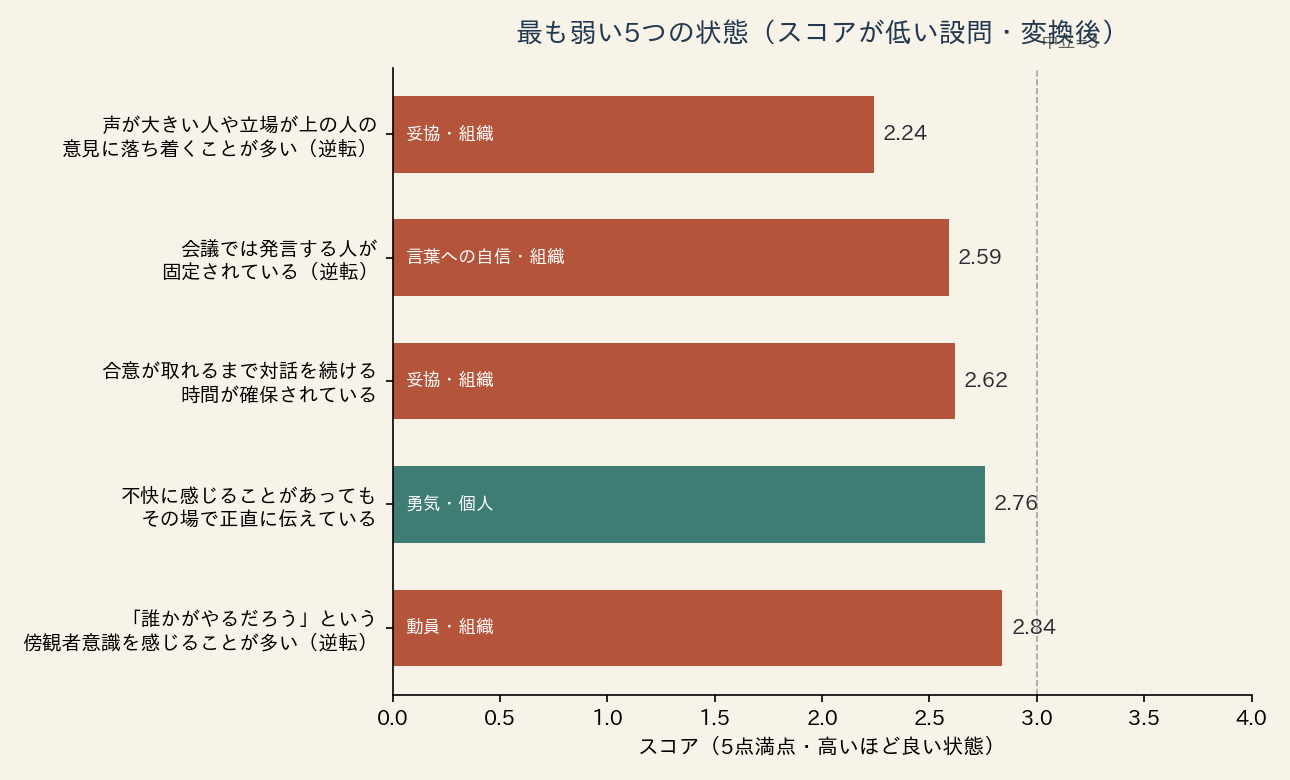
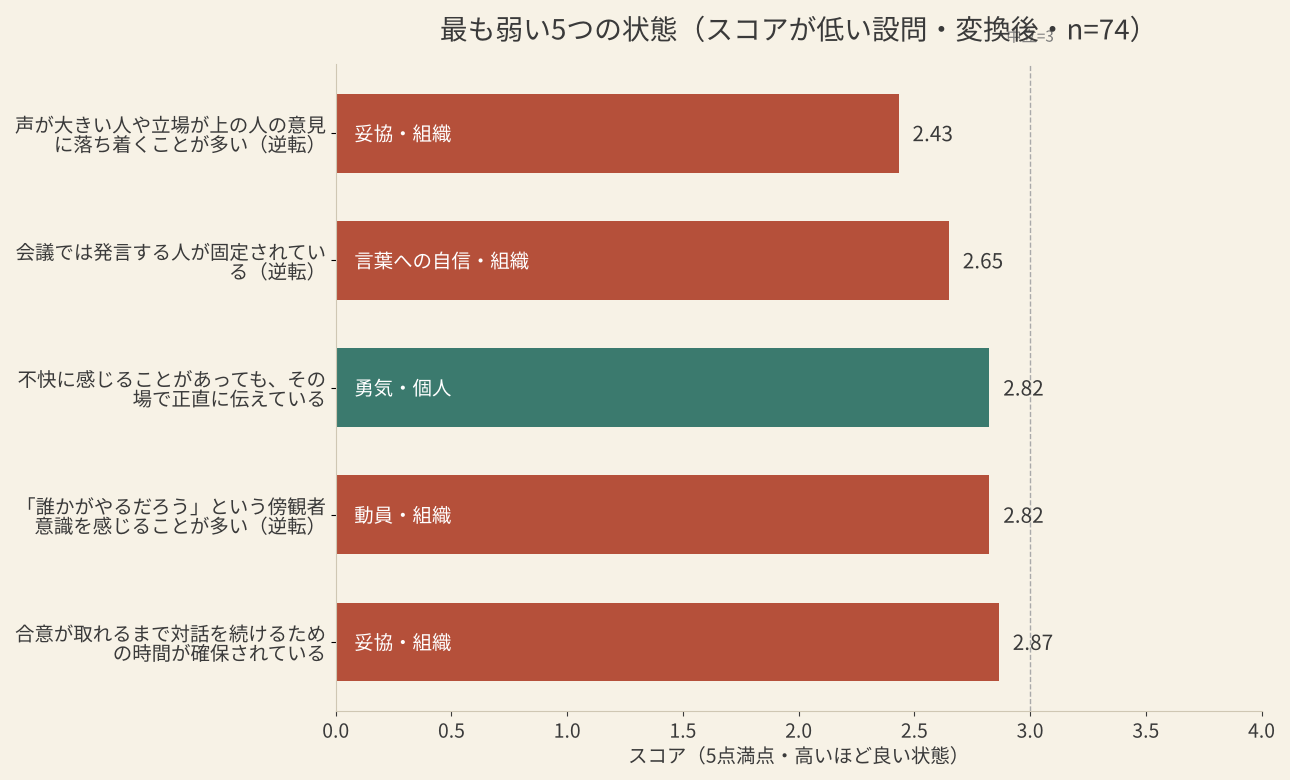
デモクラ筋白書2026 速報版を2026年10月再集計（n=37→74）で更新、再集計セクションと図を差し替え
Claude-Session: https://claude.ai/code/session_013icAqUWDd4NxwrAsCHbSKK

diff --git a/democracy-fitness-hakusho-2026.html b/democracy-fitness-hakusho-2026.html
@@ -11,11 +11,11 @@
 </script>
 <meta charset="UTF-8">
 <meta name="viewport" content="width=device-width, initial-scale=1.0">
-<title>デモクラ筋白書2026 速報版｜37人のベースラインが示す「個人より組織が弱い」</title>
-<meta name="description" content="デモクラ筋診断のベースラインデータ(n=37)を分析。10筋中9筋で個人評価が組織評価を上回り、唯一「勇気」だけが逆転。心理的安全性があっても人は発言しない——3つの発見と、実施後に検証する仮説を事前宣言する。">
+<title>デモクラ筋白書2026 速報版（2026年10月再集計・n=74）｜個人より組織が弱い</title>
+<meta name="description" content="デモクラ筋診断のベースラインデータを分析。2026年10月にn=74で再集計しても、10筋中9筋で個人評価が組織評価を上回り、唯一「勇気」だけが逆転するパターンは変わらなかった。心理的安全性があっても人は発言しない——3つの発見と、検証中の仮説。">
 <link rel="canonical" href="https://kizukikumitate.com/democracy-fitness-hakusho-2026.html">
 <meta property="og:title" content="デモクラ筋白書2026 速報版">
-<meta property="og:description" content="個人の筋力より、組織の環境が弱い——37人のベースライン分析と3つの発見">
+<meta property="og:description" content="個人の筋力より、組織の環境が弱い——74人のベースライン分析と3つの発見（2026年10月再集計）">
 <meta property="og:type" content="article">
 <meta property="og:url" content="https://kizukikumitate.com/democracy-fitness-hakusho-2026.html">
 <meta property="og:image" content="https://kizukikumitate.com/hakusho-ogp.png">
@@ -23,7 +23,7 @@
 <meta property="og:image:height" content="630">
 <meta name="twitter:card" content="summary_large_image">
 <meta name="twitter:title" content="デモクラ筋白書2026 速報版">
-<meta name="twitter:description" content="個人の筋力より、組織の環境が弱い——37人のベースライン分析と3つの発見">
+<meta name="twitter:description" content="個人の筋力より、組織の環境が弱い——74人のベースライン分析と3つの発見（2026年10月再集計）">
 <meta name="twitter:image" content="https://kizukikumitate.com/hakusho-ogp.png">
 <link rel="preconnect" href="https://fonts.googleapis.com">
 <link rel="preconnect" href="https://fonts.gstatic.com" crossorigin>
@@ -48,7 +48,7 @@
   "isBasedOn": {
     "@type": "Dataset",
     "name": "デモクラ筋診断 ベースライン回答データ(2026)",
-    "description": "デモクラ筋診断(法人版・意識版)の回答。品質フィルタ適用後n=37。回答期間2026-03-21〜2026-07-07。",
+    "description": "デモクラ筋診断(法人版・意識版)の回答。品質フィルタ適用後n=74（速報版初出時はn=37）。回答期間2026-03-21〜2026-09-19。2026-10-24再集計。",
     "creator": { "@id": "https://kizukikumitate.com/#org" }
   },
   "license": "https://creativecommons.org/licenses/by-nc-sa/4.0/"
@@ -119,6 +119,11 @@ blockquote.item small{display:block;font-family:'Zen Kaku Gothic New',sans-serif
 .pledge .note{font-size:13px;color:var(--ink-soft);margin-top:14px;padding-right:70px}
 
 /* 限界 */
+.recount-grid{display:grid;grid-template-columns:repeat(2,minmax(0,1fr));gap:16px;margin:16px 0 20px}
+.rc{background:var(--card);border:1px solid var(--line);border-radius:8px;padding:18px 20px}
+.rc-k{font-family:'Jost','Zen Kaku Gothic New',sans-serif;font-weight:700;font-size:13px;letter-spacing:.12em;color:var(--teal);margin-bottom:8px}
+.rc ul{margin:0;padding-left:1.2em}.rc li{font-size:14.5px;line-height:1.75;margin-bottom:6px;word-break:keep-all;overflow-wrap:anywhere}
+@media (max-width:768px){.recount-grid{grid-template-columns:minmax(0,1fr)}}
 .limits{background:#F2F0E9;border:1px solid var(--line);border-radius:8px;padding:22px 24px;margin:8px 0 20px}
 .limits h3{font-size:16px;margin-bottom:10px;color:var(--indigo)}
 .limits p{font-size:14px;color:var(--ink-soft);margin-bottom:10px}
@@ -364,7 +369,7 @@ footer{border-top:0;padding:3rem 2rem;text-align:center}
       <button class="nav-dropdown-toggle" type="button">調査・データ <span class="nav-caret">▾</span></button>
       <div class="nav-dropdown-menu">
         <a href="./research.html" title="独自調査データの発行棚。白書・効果検証を公開">観測室について（調査・データ）</a>
-        <a href="./democracy-fitness-hakusho-2026.html" title="デモクラ筋診断のベースラインデータ(n=37)を分析" class="active">デモクラ筋白書2026 速報版</a>
+        <a href="./democracy-fitness-hakusho-2026.html" title="デモクラ筋診断のベースラインデータ(n=74)を分析" class="active">デモクラ筋白書2026 速報版</a>
         <a href="./jijitsu-daicho.html" title="資格・経歴・実績を出典つきで一覧する公式レジストリ">事実の台帳（発行者情報）</a>
       </div>
     </li>
@@ -500,7 +505,7 @@ footer{border-top:0;padding:3rem 2rem;text-align:center}
     <button class="mobile-acc-toggle" type="button">調査・データ <span class="mobile-acc-caret">▾</span></button>
     <div class="mobile-acc-panel">
       <a href="./research.html" title="独自調査データの発行棚。白書・効果検証を公開">観測室について（調査・データ）</a>
-      <a href="./democracy-fitness-hakusho-2026.html" title="デモクラ筋診断のベースラインデータ(n=37)を分析" class="active">デモクラ筋白書2026 速報版</a>
+      <a href="./democracy-fitness-hakusho-2026.html" title="デモクラ筋診断のベースラインデータ(n=74)を分析" class="active">デモクラ筋白書2026 速報版</a>
       <a href="./jijitsu-daicho.html" title="資格・経歴・実績を出典つきで一覧する公式レジストリ">事実の台帳（発行者情報）</a>
     </div>
   </div>
@@ -522,8 +527,8 @@ footer{border-top:0;padding:3rem 2rem;text-align:center}
   <div class="wrap">
     <div class="series">DEMOCRACY FITNESS WHITE PAPER 2026 / 速報版</div>
     <h1>デモクラ筋白書 2026<span class="headline">個人の筋力より、組織の環境が弱い</span></h1>
-    <div class="meta">n=37｜2026-03-21〜07-07｜デモクラ筋診断（法人版・意識版）ベースライン分析</div>
-    <p class="lead">対話に必要な10の筋肉——デモクラ筋。その診断データが37人分たまりました。まだ小さなサンプルです。しかし、そこにはすでに、はっきりとしたパターンが浮かんでいます。本速報版はベースライン（トレーニング実施前）の観察報告であり、これから検証する仮説をここに事前宣言します。</p>
+    <div class="meta">n=74｜2026-03-21〜09-19｜デモクラ筋診断（法人版・意識版）ベースライン分析｜2026-10-24 再集計（初出 2026-07-19 n=37）</div>
+    <p class="lead">対話に必要な10の筋肉——デモクラ筋。その診断データは、2026年7月の初出時点で37人分、同年10月の再集計で74人分になりました。まだ小さなサンプルです。しかし、サンプルが2倍になっても、最初に浮かんだパターンは一つも崩れませんでした。本速報版はベースライン（トレーニング実施前）の観察報告であり、検証中の仮説をここに事前宣言しています。</p>
   </div>
 </header>
 
@@ -540,12 +545,12 @@ footer{border-top:0;padding:3rem 2rem;text-align:center}
   <section id="finding1">
     <div class="f-label">FINDING 01</div>
     <h2>個人の筋力より、組織の環境が弱い</h2>
-    <p>診断は同じ回答者に、各筋を2つのレイヤーで尋ねます。「自分自身はどうか」（個人評価）と、「自分の組織はどうか」（組織評価）。この2つを比べたとき、10筋中9筋で個人評価が組織評価を上回りました。総合スコアの差は<span class="stat">+0.52点</span>（個人3.84 vs 組織3.31、対応のあるt検定 p&lt;0.000001）。回答者37人のうち<span class="stat">29人</span>が、自分自身より組織を低く評価しています（組織を高く評価したのはわずか3人でした）。</p>
+    <p>診断は同じ回答者に、各筋を2つのレイヤーで尋ねます。「自分自身はどうか」（個人評価）と、「自分の組織はどうか」（組織評価）。この2つを比べたとき、10筋中9筋で個人評価が組織評価を上回りました。総合スコアの差は<span class="stat">+0.52点</span>（個人3.79 vs 組織3.27、対応のあるt検定 p&lt;0.000001、Wilcoxon p&lt;0.00001）。回答者74人のうち<span class="stat">62人</span>が、自分自身より組織を低く評価しています（組織を高く評価したのは12人でした）。初出のn=37では29人／37人（78%）、今回は62人／74人（84%）と、割合はむしろ強まりました。</p>
     <figure class="figure">
       <img src="assets/img/hakusho/fig1_dumbbell.png" alt="10のデモクラ筋について個人評価と組織評価を比較したダンベルチャート。共感筋のギャップが+1.02で最大、勇気筋のみ組織が個人を上回る逆転を示す" loading="lazy">
-      <figcaption>図1：10のデモクラ筋 個人評価 vs 組織評価（n=37・逆転項目変換済み・5点満点）。ギャップ最大は共感筋の+1.02、次いで良い妥協筋+0.86。勇気筋のみ逆転。</figcaption>
+      <figcaption>図1：10のデモクラ筋 個人評価 vs 組織評価（n=74・2026年10月再集計・逆転項目変換済み・5点満点）。ギャップ最大は共感筋の+1.02、次いで言葉への自信筋+0.73、好奇心筋+0.71。勇気筋のみ逆転。</figcaption>
     </figure>
-    <p>ギャップが最も大きいのは共感筋（個人4.09／組織3.07）と良い妥協筋（個人3.70／組織2.85）。つまり「相手の事情を理解しようとする気持ち」も「より良い落としどころを探す意志」も、個人の中には十分にあるのに、組織の議論の場ではそれが発揮されていない——回答者たちはそう認識しています。</p>
+    <p>ギャップが最も大きいのは共感筋（個人4.09／組織3.07）。次いで言葉への自信筋（個人3.91／組織3.19）、好奇心筋（個人4.10／組織3.40）、反対意見筋（個人3.81／組織3.20）、良い妥協筋（個人3.51／組織2.93）が続きます。つまり「相手の事情を理解しようとする気持ち」も「より良い落としどころを探す意志」も、個人の中には十分にあるのに、組織の議論の場ではそれが発揮されていない——回答者たちはそう認識しています。</p>
     <p>これは、パフォーマンス改善の古典であるGilbertの行動工学モデル（BEM）が繰り返し示してきたこと——<b>成果の障害の大半は個人の能力不足ではなく環境要因にある</b>——と一致するパターンです。</p>
     <div class="counter"><b>正直な併記：</b>このパターンは自己奉仕バイアス（人は自分を甘く、環境を厳しく評価する傾向）でも説明できます。本白書はどちらの解釈が正しいかをこのデータだけで断定しません。ただし重要なのは、<b>どちらの解釈を取っても導かれる結論が同じ</b>だという点です。介入すべきは「個人へのスキル注入型の研修」ではなく、「組織の対話の構造」である——individualを責めても、この数字は動きません。</div>
   </section>
@@ -553,9 +558,9 @@ footer{border-top:0;padding:3rem 2rem;text-align:center}
   <section id="finding2">
     <div class="f-label">FINDING 02</div>
     <h2>唯一の逆転筋「勇気」——安全な環境があっても、踏み出せない</h2>
-    <p>10筋のうち、勇気筋だけが逆のパターンを示しました。個人3.31に対して組織3.44と、<b>唯一、組織評価が個人評価を上回った筋肉</b>です（この差は統計的に有意ではありません）。そして全60設問の中で、個人評価の最低点はこの設問でした。</p>
-    <blockquote class="item">「不快に感じることがあっても、その場で正直に伝えている」— <span class="stat">2.76</span><small>個人評価・全設問中最弱</small></blockquote>
-    <p>一方で、組織側の「本音を言っても安全だと感じられる」は3.53と、相対的に悪くない水準です。環境としての安全性はある程度整っている。それでも、個人は踏み出せていない。</p>
+    <p>10筋のうち、勇気筋だけが逆のパターンを示しました。個人3.31に対して組織3.38と、<b>唯一、組織評価が個人評価を上回った筋肉</b>です（差−0.07、対応のあるt検定 p=0.52、Wilcoxon p=0.60で統計的に有意ではありません。初出時のn=37では個人3.31／組織3.44、差−0.13でした）。そして全60設問の中で、個人評価の最低点はこの設問でした。</p>
+    <blockquote class="item">「不快に感じることがあっても、その場で正直に伝えている」— <span class="stat">2.82</span><small>個人評価・全設問中最弱（初出時 2.76）</small></blockquote>
+    <p>一方で、組織側の「本音を言っても安全だと感じられる」は3.50、「ありのままの自分で参加できる雰囲気がある」は3.66と、相対的に悪くない水準です。環境としての安全性はある程度整っている。それでも、個人は踏み出せていない。</p>
     <p>この観察は、組織開発の現場で広く共有されている前提——<b>「心理的安全性を整えれば、発言は自然に増える」</b>——に疑問を投げかけます。安全性は発言の必要条件かもしれませんが、十分条件ではない。使われない筋肉は、安全なジムの中でも育ちません。勇気筋は、環境整備ではなくトレーニングの対象である——これが本データから立ち上がる仮説です。</p>
   </section>
 
@@ -564,11 +569,11 @@ footer{border-top:0;padding:3rem 2rem;text-align:center}
     <h2>組織の最弱点は「話し始め」ではなく「決め方」</h2>
     <p>全設問を変換後スコアの低い順に並べると、ワースト3はすべて合意形成——「決め方」に関する組織評価に集中しました。</p>
     <figure class="figure">
-      <img src="assets/img/hakusho/fig2_weakest.png" alt="スコアが低い5つの設問の横棒グラフ。声が大きい人や立場が上の人の意見に落ち着くことが多い、が2.24で最弱" loading="lazy">
-      <figcaption>図2：最も弱い5つの状態（変換後スコア・中立=3を下回るものが4項目）。赤=組織評価、緑=個人評価。</figcaption>
+      <img src="assets/img/hakusho/fig2_weakest.png" alt="スコアが低い5つの設問の横棒グラフ。声が大きい人や立場が上の人の意見に落ち着くことが多い、が2.43で最弱" loading="lazy">
+      <figcaption>図2：最も弱い5つの状態（n=74・変換後スコア・5項目すべてが中立=3を下回る）。赤=組織評価、緑=個人評価。</figcaption>
     </figure>
-    <blockquote class="item">「声が大きい人や立場が上の人の意見に落ち着くことが多い」— <span class="stat">2.24</span><small>良い妥協筋・組織評価（逆転項目・変換後）・全設問中最弱</small></blockquote>
-    <p>次点は「会議では発言する人が固定されている」（2.59）、「合意が取れるまで対話を続ける時間が確保されている」（2.62）。会話は始まっている。しかし、結論は対話ではなく声量と役職で決まり、合意形成に時間が割かれていない——それが回答者たちの見ている組織の姿です。</p>
+    <blockquote class="item">「声が大きい人や立場が上の人の意見に落ち着くことが多い」— <span class="stat">2.43</span><small>良い妥協筋・組織評価（逆転項目・変換後）・全設問中最弱（初出時 2.24）</small></blockquote>
+    <p>次点は「会議では発言する人が固定されている」（2.65）、「不快に感じても、その場で正直に伝えている」（2.82・個人）、「誰かがやるだろうという傍観者意識」（2.82）、「合意が取れるまで対話を続ける時間が確保されている」（2.87）。会話は始まっている。しかし、結論は対話ではなく声量と役職で決まり、合意形成に時間が割かれていない——それが回答者たちの見ている組織の姿です。</p>
   </section>
 
   <section id="hypotheses">
@@ -580,21 +585,46 @@ footer{border-top:0;padding:3rem 2rem;text-align:center}
       <ol>
         <li><b>H1：</b>トレーニング後、最も伸びるのは<b>勇気筋の個人スコア</b>である。環境は既に整いつつあるため、個人の一歩が変われば数値に直結すると予測する。</li>
         <li><b>H2：</b>個人と組織のギャップ（+0.52）は、<b>組織単位で受講した群でのみ縮小</b>する。個人参加では個人スコアだけが上がり、ギャップはむしろ拡大しうる。</li>
-        <li><b>H3：</b>「声が大きい人で決まる」（2.24）は、<b>合意形成の型を導入した組織でのみ改善</b>する。個人の意識変化だけでは動かない。</li>
+        <li><b>H3：</b>「声が大きい人で決まる」（初出2.24→再集計2.43）は、<b>合意形成の型を導入した組織でのみ改善</b>する。個人の意識変化だけでは動かない。</li>
       </ol>
       <p class="note">検証結果は、外れた場合も含めて本白書の第1号（2026年末予定）で公開します。</p>
     </div>
   </section>
 
+  <section id="recount">
+    <div class="f-label">RE-AGGREGATION 2026-10</div>
+    <h2>再集計：サンプルが2倍になって、何が変わり、何が変わらなかったか</h2>
+    <p>速報版の初出（2026年7月19日、n=37）から3か月、福岡・名古屋・北軽井沢合宿などの体験会を経て、品質フィルタ適用後の回答は<span class="stat">74件</span>になりました。同じ手順（3月21日以降／意識版のみ／60問完答／直線回答・完全重複を除外／逆転項目は6−値）で2026年10月24日に再集計しました。</p>
+    <div class="recount-grid">
+      <div class="rc"><div class="rc-k">変わらなかったこと</div>
+        <ul>
+          <li>10筋中9筋で個人＞組織。総合の差は<b>+0.52</b>で初出と同じ値</li>
+          <li>唯一の逆転は<b>勇気筋</b>（−0.13 → −0.07、どちらも有意差なし）</li>
+          <li>全60問の最弱は<b>「声が大きい人や立場が上の人の意見に落ち着く」</b>（2.24 → 2.43）</li>
+          <li>個人側の最弱は<b>「不快に感じても、その場で正直に伝えている」</b>（2.76 → 2.82）</li>
+          <li>自分より組織を低く評価した人の割合は 78%（29/37）→ <b>84%（62/74）</b></li>
+        </ul>
+      </div>
+      <div class="rc"><div class="rc-k">変わったこと</div>
+        <ul>
+          <li>ギャップ2位が良い妥協筋（+0.86）から<b>言葉への自信筋（+0.73）</b>に。良い妥協筋は+0.59で5位に下がった（組織評価が2.85→2.93と少し上がったため）</li>
+          <li>最弱5項目が<b>すべて中立（3.0）を下回った</b>（初出時は4項目）</li>
+          <li>最弱の「声の大きい人で決まる」が2.24→2.43と改善。ただし依然として全設問で最も低い</li>
+        </ul>
+      </div>
+    </div>
+    <p>サンプルが倍になって動いたのは順位の細部だけで、3つの発見の骨格は一つも崩れませんでした。これは「n=37の偶然ではなかった」ことの、ささやかな証拠です。次の再集計は、合宿型プログラムのpre/postデータが揃う2026年末を予定しています。</p>
+  </section>
+
   <section id="methods">
     <div class="f-label">METHODS &amp; LIMITATIONS</div>
     <h2>方法と、このデータの限界</h2>
-    <p>対象はデモクラ筋診断（法人版・意識版、全60問・5件法）の回答のうち、設問が安定した2026年3月21日以降で、直線回答・完全重複を除外した37件。各筋は個人3問+組織3問で測定し、逆転項目は変換（6−値）してから集計しています。個人vs組織の比較は同一回答者内の対応データとして、対応のあるt検定とWilcoxon符号順位検定の両方で確認しました。</p>
+    <p>対象はデモクラ筋診断（法人版・意識版、全60問・5件法）の回答のうち、設問が安定した2026年3月21日以降で、直線回答・完全重複・学生版（40問）を除外した74件（2026年10月24日時点。初出時は7月7日までの37件）。各筋は個人3問+組織3問で測定し、逆転項目は変換（6−値）してから集計しています。個人vs組織の比較は同一回答者内の対応データとして、対応のあるt検定とWilcoxon符号順位検定の両方で確認しました。</p>
     <div class="limits">
       <h3>限界（読み手に先に伝えたいこと）</h3>
       <p><b>サンプルの偏り：</b>回答者はDemocracy Fitness体験会等の参加者が中心です。つまり対話への関心が高い層に偏っており、「日本の組織一般」を代表しません。</p>
       <p><b>自己評価であること：</b>測っているのは自己認識であり、行動の実測ではありません（行動実績版の蓄積は始まったばかりです）。</p>
-      <p><b>因果は語れない：</b>本速報版は記述統計と仮説の提示に徹しています。n=37で断定できることは多くありません——だからこそ、仮説を宣言し、検証を続けます。</p>
+      <p><b>因果は語れない：</b>本速報版は記述統計と仮説の提示に徹しています。n=74で断定できることは多くありません——だからこそ、仮説を宣言し、検証を続けます。</p>
     </div>
   </section>
 
@@ -662,7 +692,7 @@ footer{border-top:0;padding:3rem 2rem;text-align:center}
     <div class="shelf-title">📚 調査・データの棚</div>
     <div class="shelf-list" role="navigation">
       <a href="./research.html" title="独自調査データの発行棚。白書・効果検証を公開">観測室について（調査・データ）</a>
-      <a href="./democracy-fitness-hakusho-2026.html" title="デモクラ筋診断のベースラインデータ(n=37)を分析" class="active">デモクラ筋白書2026 速報版</a>
+      <a href="./democracy-fitness-hakusho-2026.html" title="デモクラ筋診断のベースラインデータ(n=74)を分析" class="active">デモクラ筋白書2026 速報版</a>
       <a href="./jijitsu-daicho.html" title="資格・経歴・実績を出典つきで一覧する公式レジストリ">事実の台帳（発行者情報）</a>
     </div>
   </aside>
